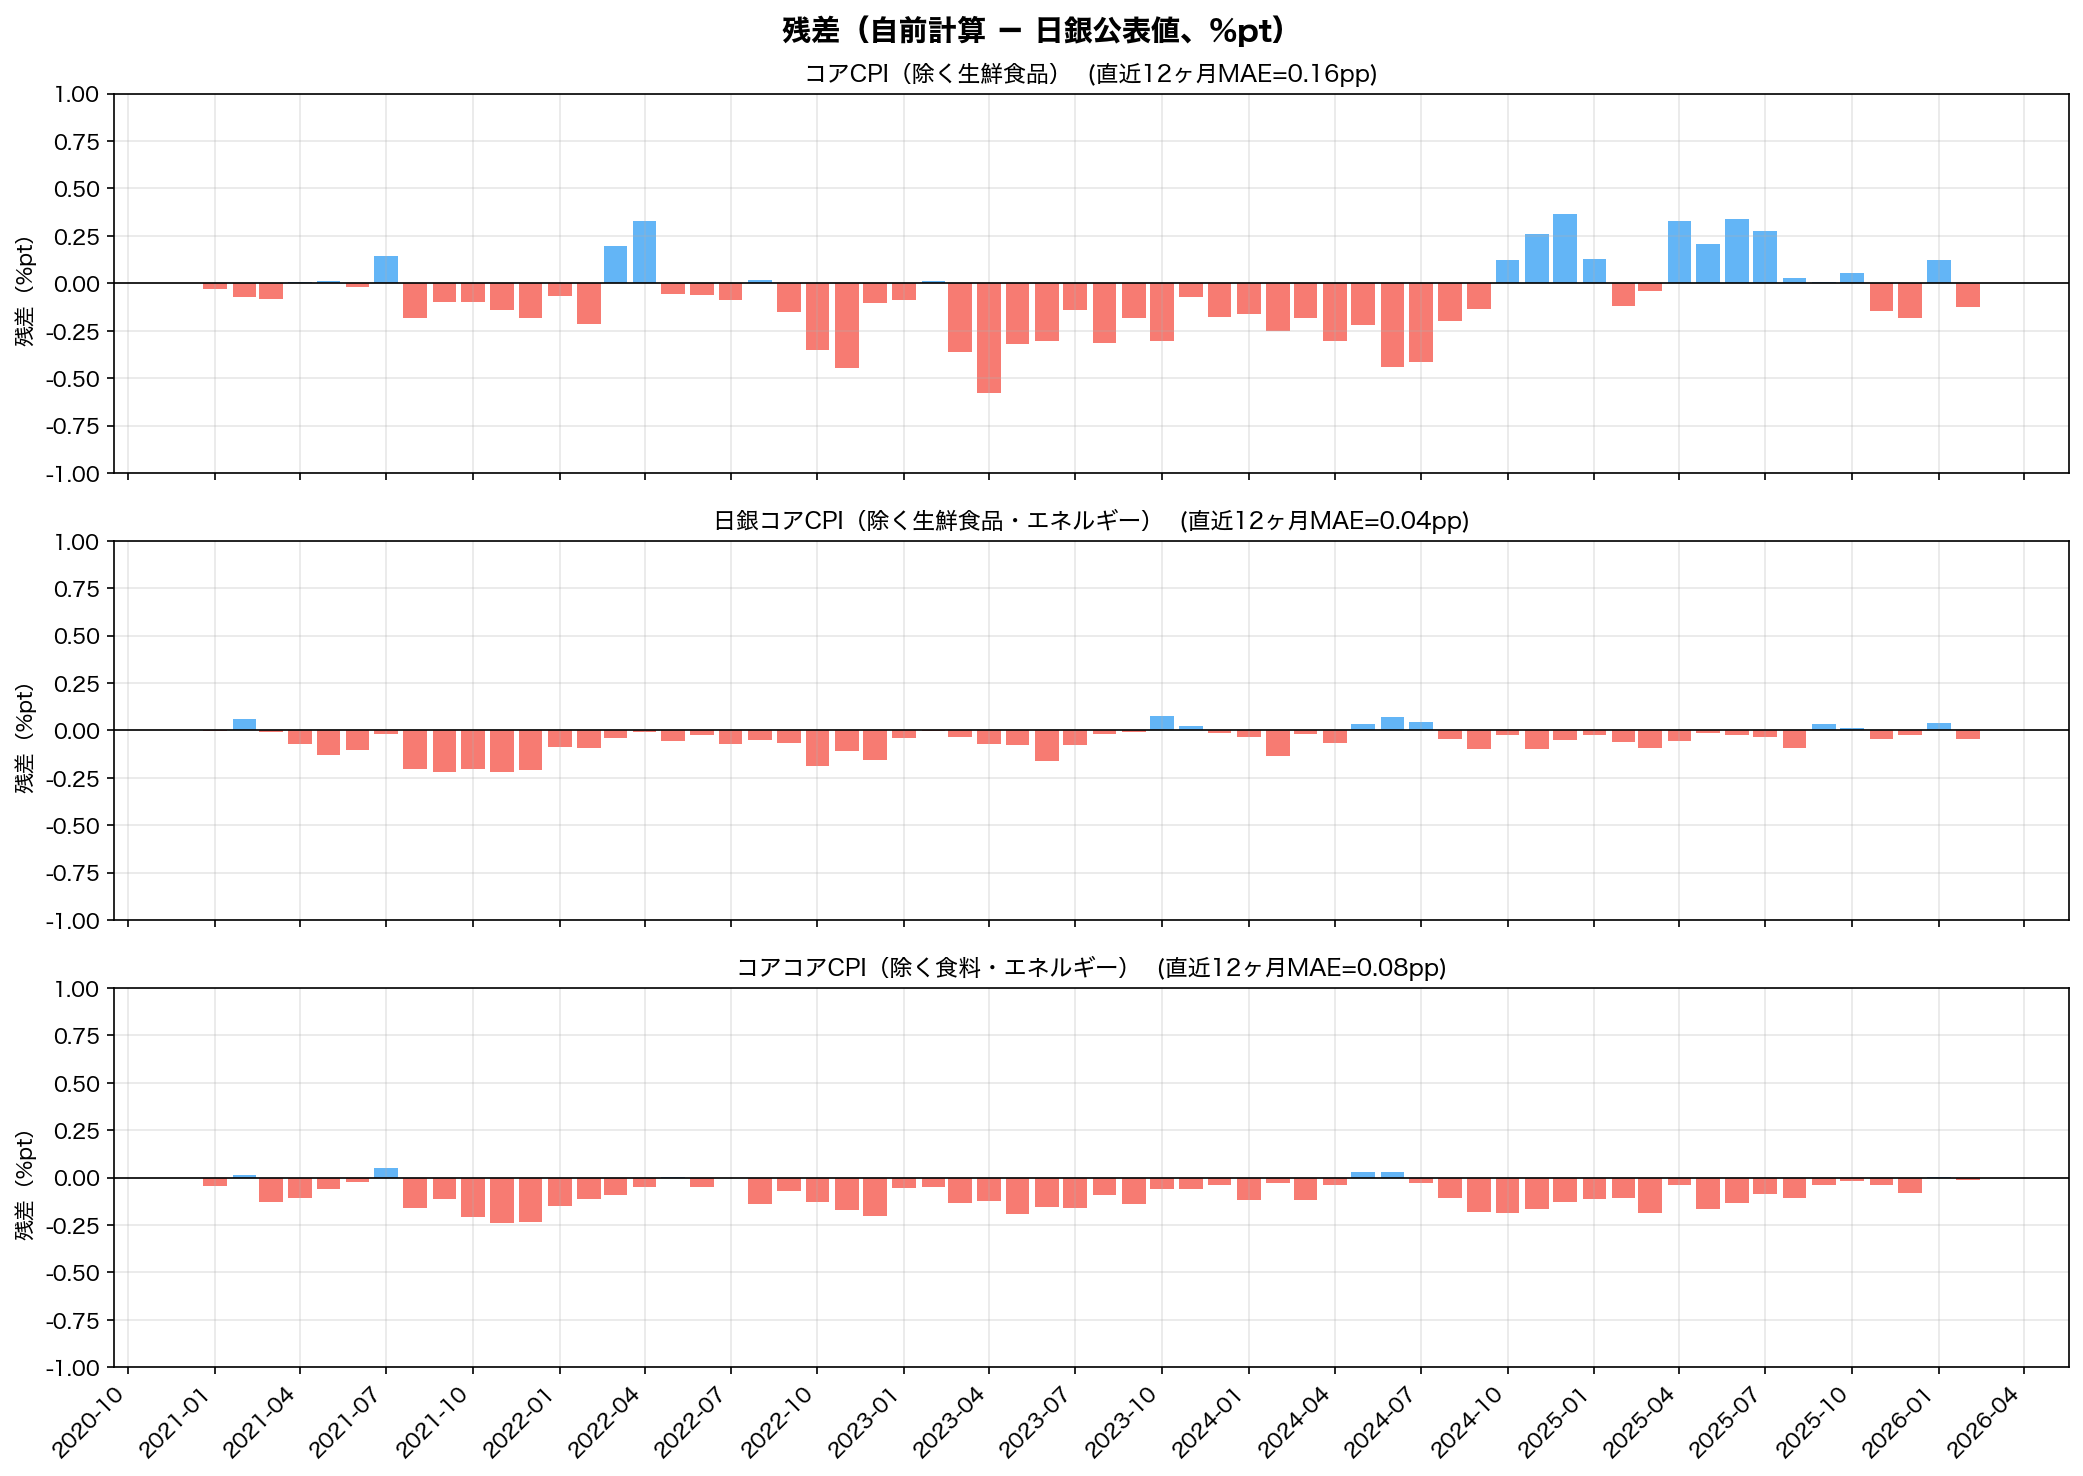
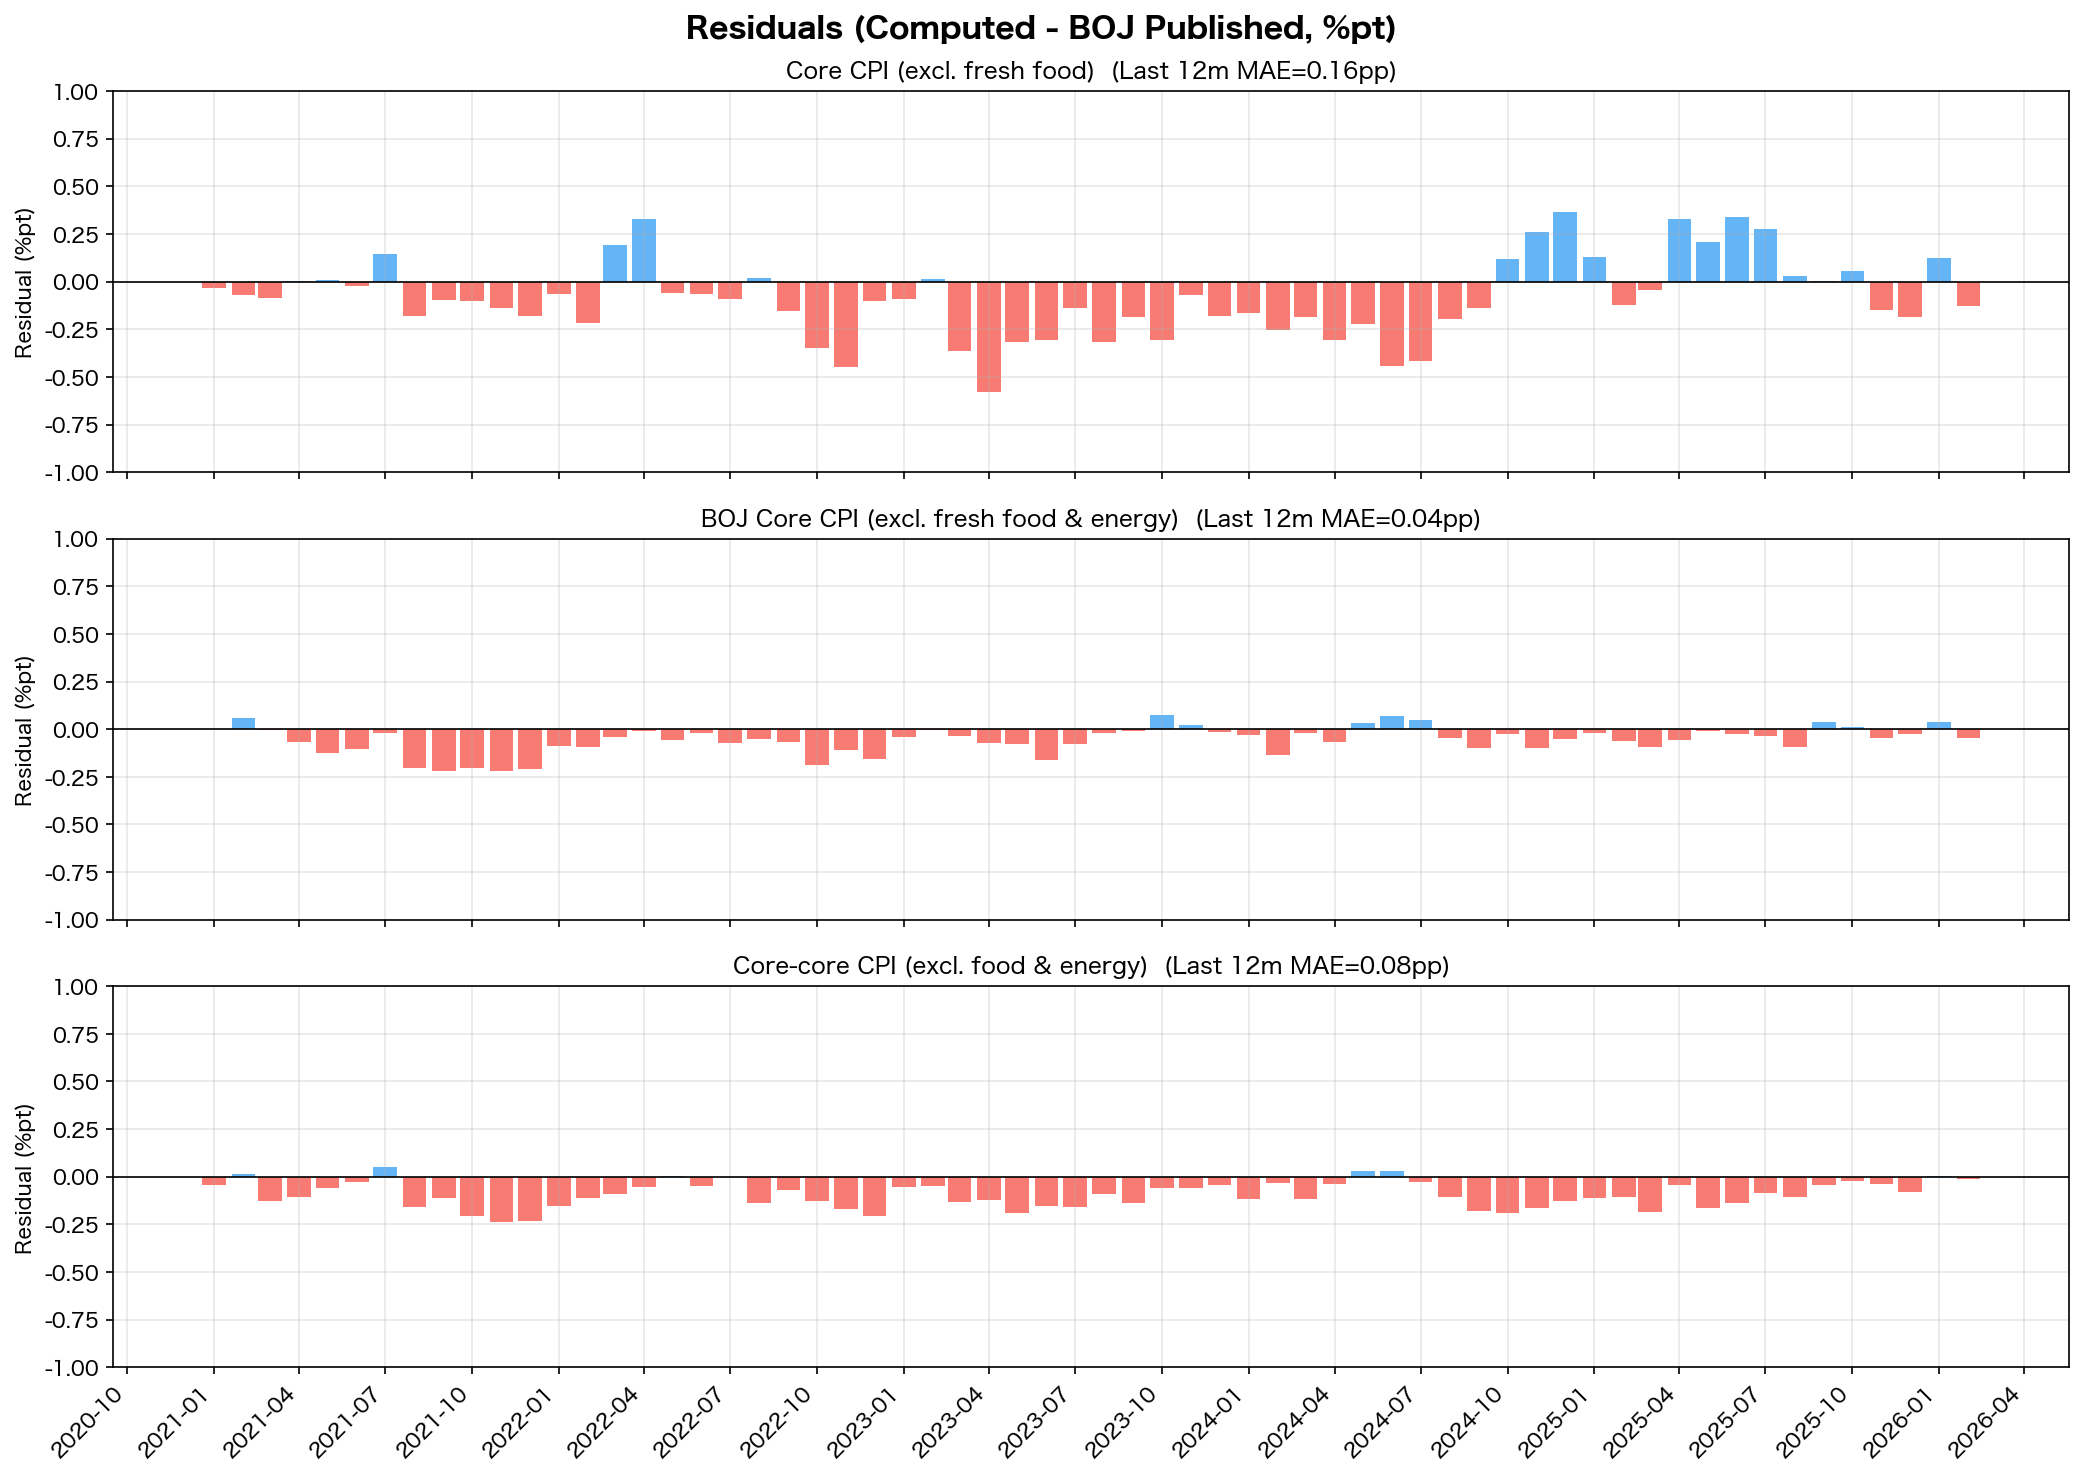
Translate all chart text to English

diff --git a/scripts/plot_results.py b/scripts/plot_results.py
@@ -44,14 +44,14 @@ def main():
     indices, indices_adj, weights, master, boj = load_and_adjust()
 
     boj_map = {
-        "core": ("core_ex_special", "コアCPI（除く生鮮食品）"),
-        "boj_core": ("boj_core_ex_special", "日銀コアCPI（除く生鮮食品・エネルギー）"),
-        "core_core": ("core_core_ex_special", "コアコアCPI（除く食料・エネルギー）"),
+        "core": ("core_ex_special", "Core CPI (excl. fresh food)"),
+        "boj_core": ("boj_core_ex_special", "BOJ Core CPI (excl. fresh food & energy)"),
+        "core_core": ("core_core_ex_special", "Core-core CPI (excl. food & energy)"),
     }
 
     # --- 図1: 3系列の前年比比較 ---
     fig, axes = plt.subplots(3, 1, figsize=(14, 12), sharex=True)
-    fig.suptitle("特殊要因を除いたCPI前年比: 自前計算 vs 日銀公表値", fontsize=14, fontweight="bold")
+    fig.suptitle("CPI YoY excl. Special Factors: Computed vs BOJ Published", fontsize=14, fontweight="bold")
 
     for ax, (series_name, (boj_name, title)) in zip(axes, boj_map.items()):
         # 未調整
@@ -70,11 +70,11 @@ def main():
         adj_vals = [yoy_adj[ym] for ym in common]
         boj_vals = [boj_s[ym] for ym in common]
 
-        ax.plot(dates, orig_vals, color="#BBBBBB", linewidth=1, label="未調整", linestyle="--")
-        ax.plot(dates, adj_vals, color="#2196F3", linewidth=1.8, label="自前計算（調整済）")
-        ax.plot(dates, boj_vals, color="#F44336", linewidth=1.8, label="日銀公表値", linestyle=":")
+        ax.plot(dates, orig_vals, color="#BBBBBB", linewidth=1, label="Unadjusted", linestyle="--")
+        ax.plot(dates, adj_vals, color="#2196F3", linewidth=1.8, label="Computed (adjusted)")
+        ax.plot(dates, boj_vals, color="#F44336", linewidth=1.8, label="BOJ Published", linestyle=":")
         ax.set_title(title, fontsize=11)
-        ax.set_ylabel("前年比（%）")
+        ax.set_ylabel("YoY (%)")
         ax.legend(loc="upper left", fontsize=9)
         ax.grid(True, alpha=0.3)
         ax.axhline(y=0, color="black", linewidth=0.5)
@@ -90,7 +90,7 @@ def main():
 
     # --- 図2: 残差（自前計算 - 日銀公表値） ---
     fig, axes = plt.subplots(3, 1, figsize=(14, 10), sharex=True)
-    fig.suptitle("残差（自前計算 − 日銀公表値、%pt）", fontsize=14, fontweight="bold")
+    fig.suptitle("Residuals (Computed - BOJ Published, %pt)", fontsize=14, fontweight="bold")
 
     for ax, (series_name, (boj_name, title)) in zip(axes, boj_map.items()):
         adj = compute_weighted_index(indices_adj, weights, series_name, master)
@@ -103,8 +103,8 @@ def main():
 
         ax.bar(dates, residuals, width=25, color=["#F44336" if r < 0 else "#2196F3" for r in residuals], alpha=0.7)
         ax.axhline(y=0, color="black", linewidth=0.8)
-        ax.set_title(f"{title}  (直近12ヶ月MAE={mae:.2f}pp)", fontsize=11)
-        ax.set_ylabel("残差（%pt）")
+        ax.set_title(f"{title}  (Last 12m MAE={mae:.2f}pp)", fontsize=11)
+        ax.set_ylabel("Residual (%pt)")
         ax.set_ylim(-1.0, 1.0)
         ax.grid(True, alpha=0.3)
 
@@ -119,23 +119,23 @@ def main():
 
     # --- 図3: 品目別調整の効果（指数水準） ---
     fig, axes = plt.subplots(2, 2, figsize=(14, 10))
-    fig.suptitle("品目別調整の効果（指数水準）", fontsize=14, fontweight="bold")
+    fig.suptitle("Item-level Adjustment Effects (Index Level)", fontsize=14, fontweight="bold")
 
     items = [
-        ("7301", "ガソリン", axes[0, 0]),
-        ("3500", "電気代", axes[0, 1]),
-        ("8020", "高校授業料（公立）", axes[1, 0]),
-        ("7430", "通信料（携帯電話）", axes[1, 1]),
+        ("7301", "Gasoline", axes[0, 0]),
+        ("3500", "Electricity", axes[0, 1]),
+        ("8020", "HS Tuition (Public)", axes[1, 0]),
+        ("7430", "Mobile Phone Fees", axes[1, 1]),
     ]
 
     for code, name, ax in items:
         dates_all = ym_to_date(indices.index)
-        ax.plot(dates_all, indices[code].values, color="#BBBBBB", linewidth=1.5, label="公表値")
-        ax.plot(dates_all, indices_adj[code].values, color="#2196F3", linewidth=1.5, label="調整済")
+        ax.plot(dates_all, indices[code].values, color="#BBBBBB", linewidth=1.5, label="Published")
+        ax.plot(dates_all, indices_adj[code].values, color="#2196F3", linewidth=1.5, label="Adjusted")
         ax.fill_between(dates_all, indices[code].values, indices_adj[code].values,
                         alpha=0.2, color="#2196F3")
         ax.set_title(f"{name}（{code}）", fontsize=11)
-        ax.set_ylabel("指数（2020年=100）")
+        ax.set_ylabel("Index (2020=100)")
         ax.legend(fontsize=9)
         ax.grid(True, alpha=0.3)
         ax.xaxis.set_major_formatter(mdates.DateFormatter("%Y"))
